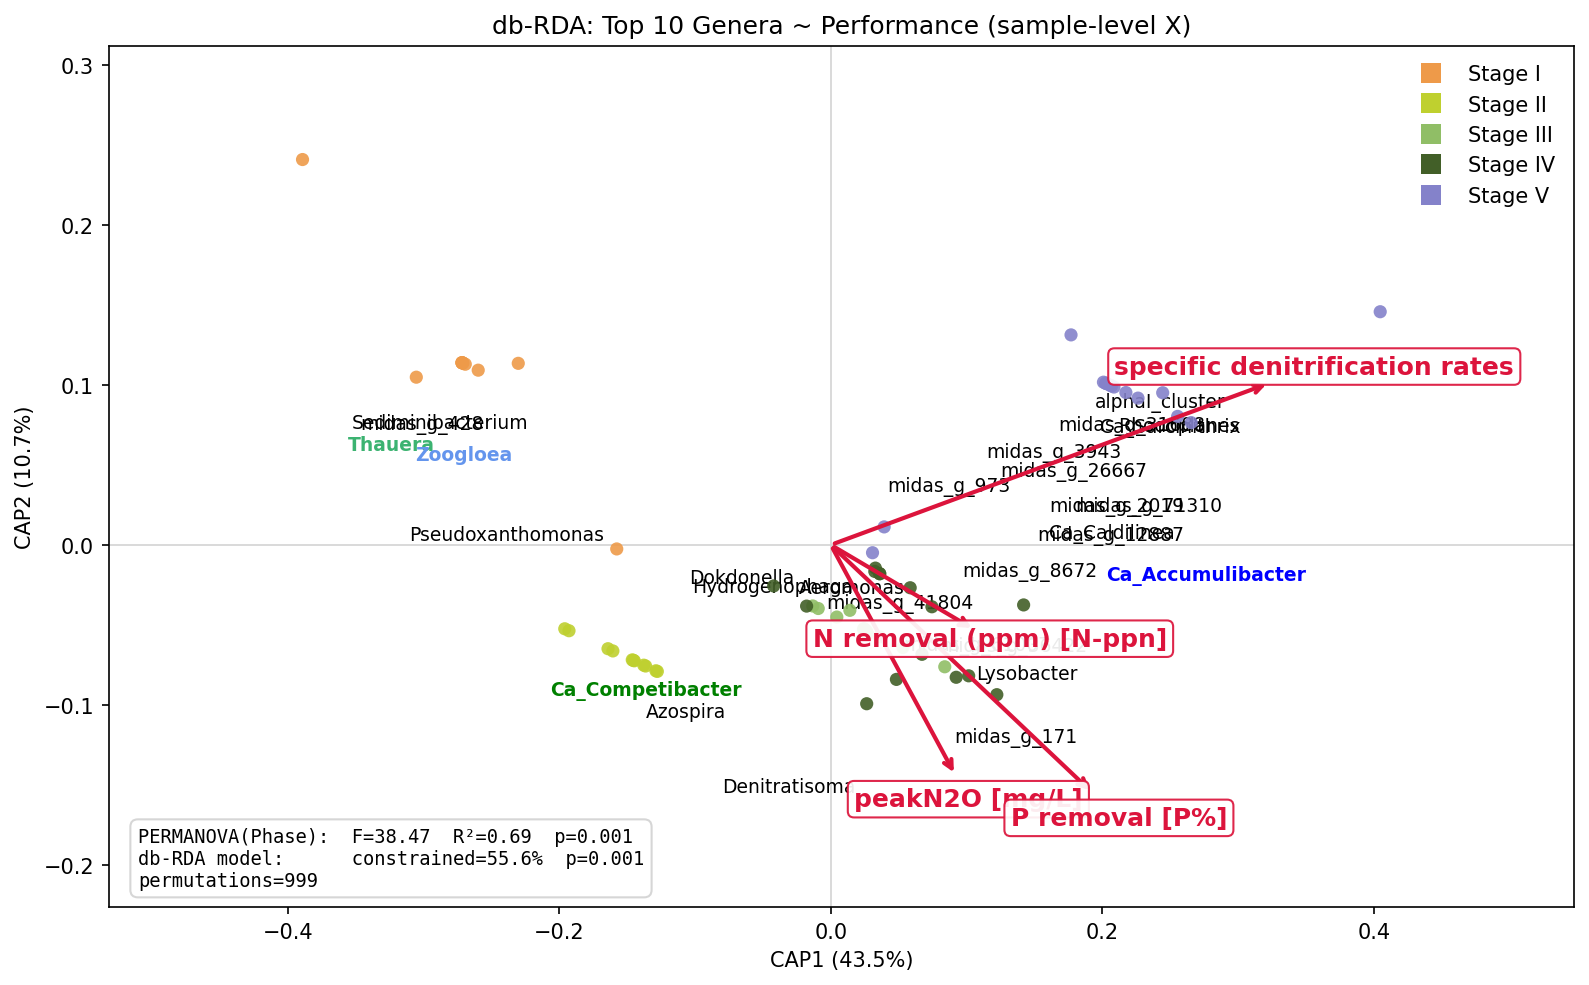
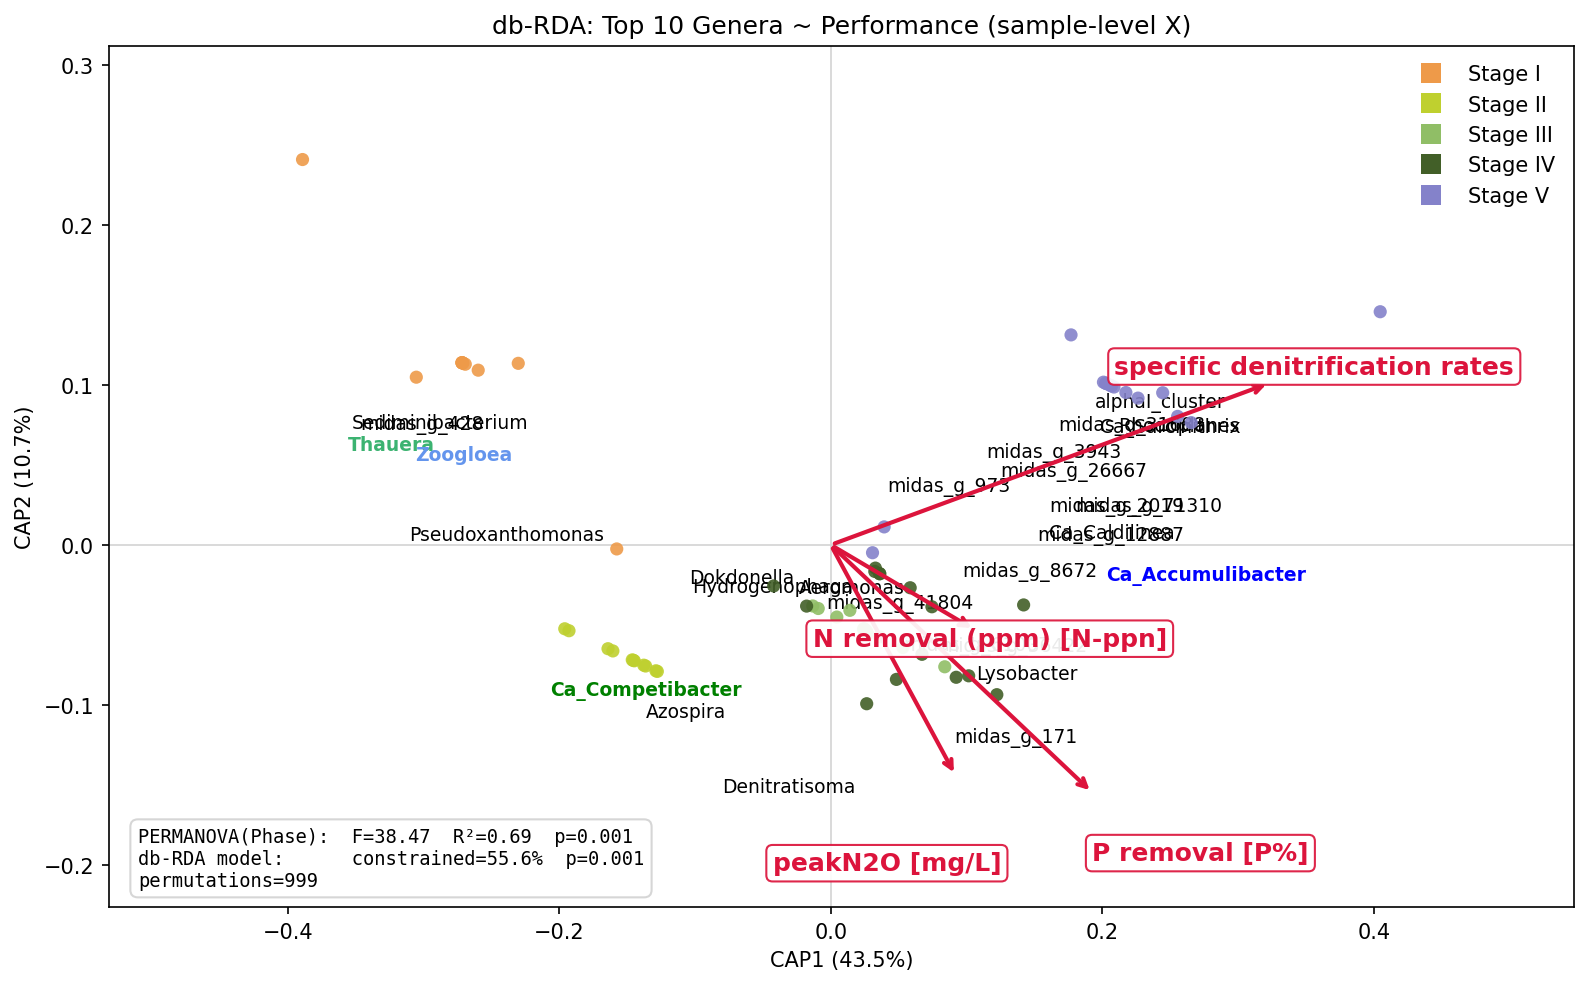
dbRDA: separate peakN2O/P removal labels; export species "X" lists
- Add arrow_label_offsets to plot_dbrda and use it on the performance
  panels to pull the overlapping peakN2O and P removal labels apart
  (they point in nearly the same direction).
- Export a per-figure genera CSV for the "X"-marker variants, mapping
  each X to its genus, functional category, and plotted coordinates.

Changed region(s): [[0.4626, 0.7919, 0.8326, 0.9137]]

diff --git a/dbRDA_analysis.py b/dbRDA_analysis.py
@@ -83,6 +83,13 @@ def species_label_color(genus: str) -> str:
             return GAO_PAO_LABEL_COLORS.get(cat, SPECIES_DEFAULT_COLOR)
     return SPECIES_DEFAULT_COLOR
 
+def species_category(genus: str) -> str:
+    """GAO/PAO functional category for a genus (substring match), or '' if none."""
+    for org, cat in _INVERTED_GAOs_PAOs.items():
+        if org in str(genus):
+            return cat
+    return ''
+
 def stage_from_id(sample_id: str) -> str | None:
     """B17–B25 → I, B26–B30 → II, B31–B41 → III, B42–B52 → IV, B53–B60 → V."""
     s = str(sample_id)
@@ -272,7 +279,8 @@ def dbrda_perm_test(Y: pd.DataFrame, X: pd.DataFrame, *, n_perm: int = 999,
 def plot_dbrda(res: dict, *, stages: list[str], sample_ids: list[str], title: str,
                arrow_color: str, out_path: Path, custom_arrow_labels: bool = False,
                ylim: tuple[float, float] | None = None,
-               annotation: str | None = None, xs_mode: bool = False) -> None:
+               annotation: str | None = None, xs_mode: bool = False,
+               arrow_label_offsets: dict[str, tuple[float, float]] | None = None) -> None:
     sites = res['sites']
     species = res['species'].copy()
     biplot = res['biplot'].copy()
@@ -315,6 +323,13 @@ def plot_dbrda(res: dict, *, stages: list[str], sample_ids: list[str], title: st
                 x_lab, y_lab = x * 1.05, y - 0.07
             elif 'C/N' in var:
                 x_lab, y_lab = x + 0.12, y
+        # explicit per-variable label offsets (substring match) to separate
+        # overlapping labels (e.g. peakN2O vs P removal in the performance panel)
+        if arrow_label_offsets:
+            for key, (dx, dy) in arrow_label_offsets.items():
+                if key in var:
+                    x_lab, y_lab = x_lab + dx, y_lab + dy
+                    break
         ax.text(x_lab, y_lab, var, color=arrow_color, fontsize=12,
                 ha='center', va='center', fontweight='bold',
                 bbox=dict(boxstyle='round,pad=0.25', facecolor='white',
@@ -366,6 +381,19 @@ def plot_dbrda(res: dict, *, stages: list[str], sample_ids: list[str], title: st
     plt.savefig(out_path, dpi=150, bbox_inches='tight')
     plt.close(fig)
     print(f'wrote {out_path}')
+
+    # For the "X"-marker figures, export the genera each X represents, with the
+    # functional category and the plotted (scaled) coordinates so each X on the
+    # figure can be matched back to its genus.
+    if xs_mode:
+        sp_out = species[['CAP1', 'CAP2']].copy()
+        sp_out.columns = ['plot_CAP1', 'plot_CAP2']
+        sp_out.insert(0, 'functional_category', [species_category(g) for g in sp_out.index])
+        sp_out.index.name = 'genus'
+        sp_out = sp_out.sort_values(['functional_category', 'genus'])
+        csv_path = out_path.with_name(out_path.stem + '_species.csv')
+        sp_out.to_csv(csv_path)
+        print(f'wrote {csv_path} ({len(sp_out)} genera)')
 
 
 # ----- fallback: build stage-level Performance/Environmental from repo CSVs
@@ -655,18 +683,25 @@ def main() -> None:
         f'db-RDA model:      constrained={100*pm_full_p["F_like_ratio"]:.1f}%  p={pm_full_p["p"]:.3f}\n'
         f'permutations={N_PERM}'
     )
+    # peakN2O and P removal arrows point in nearly the same direction, so their
+    # default labels overlap; pull them apart horizontally and drop them below
+    # the sample-dot cluster.
+    PERF_LABEL_OFFSETS = {
+        'peakN2O':   (-0.06, -0.040),
+        'P removal': (+0.060, -0.022),
+    }
     plot_dbrda(
         res_p, stages=stages_p, sample_ids=Y_p.index.tolist(),
         title='db-RDA: Top 10 Genera ~ Performance (sample-level X)',
         arrow_color='crimson', out_path=OUT_DIR / 'dbRDA_performance.png',
-        annotation=ann_p,
+        annotation=ann_p, arrow_label_offsets=PERF_LABEL_OFFSETS,
     )
     # _Xs variant: 20%-larger black-edged dots, species rendered as "X" (same model)
     plot_dbrda(
         res_p, stages=stages_p, sample_ids=Y_p.index.tolist(),
         title='db-RDA: Top 10 Genera ~ Performance (sample-level X)',
         arrow_color='crimson', out_path=OUT_DIR / 'dbRDA_performance_Xs.png',
-        annotation=ann_p, xs_mode=True,
+        annotation=ann_p, xs_mode=True, arrow_label_offsets=PERF_LABEL_OFFSETS,
     )
 
     # ----- db-RDA: abundance ~ operational drivers (paper-2 curated set) ---